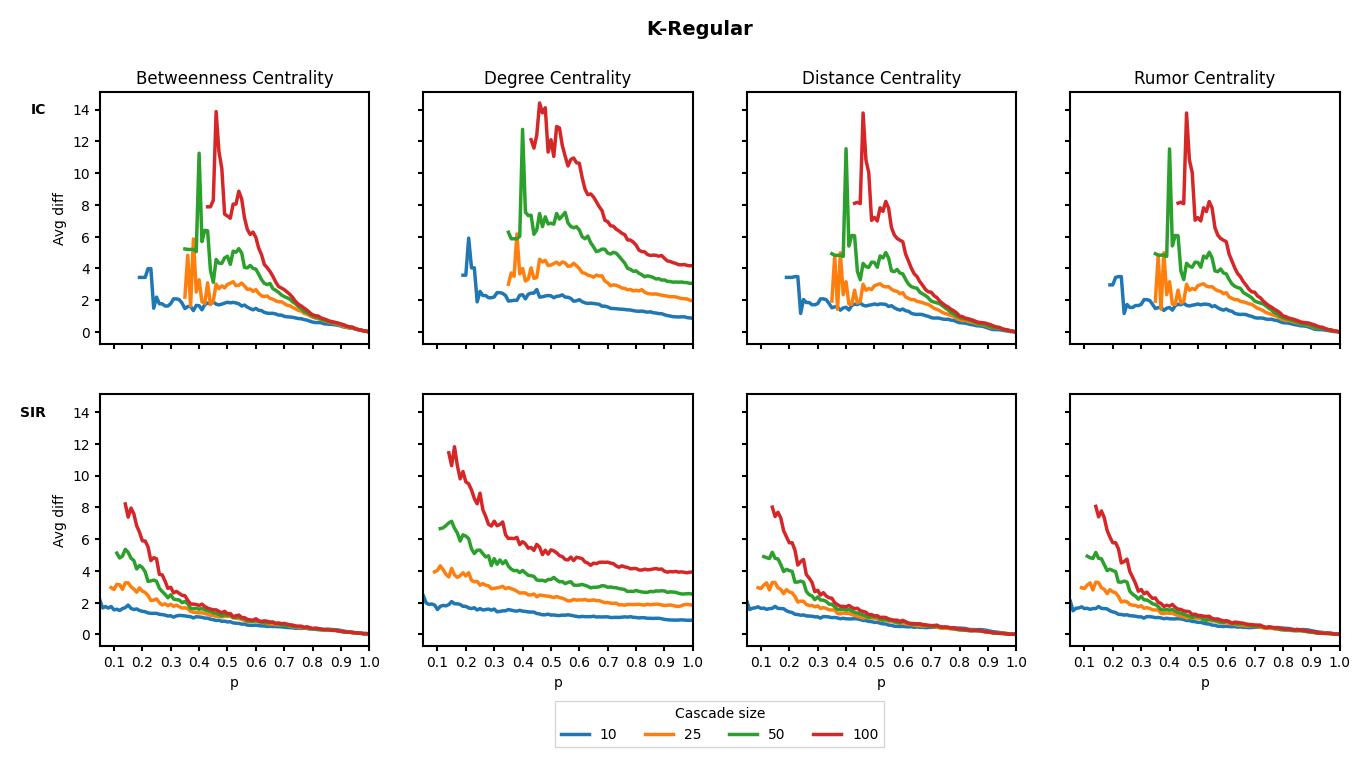
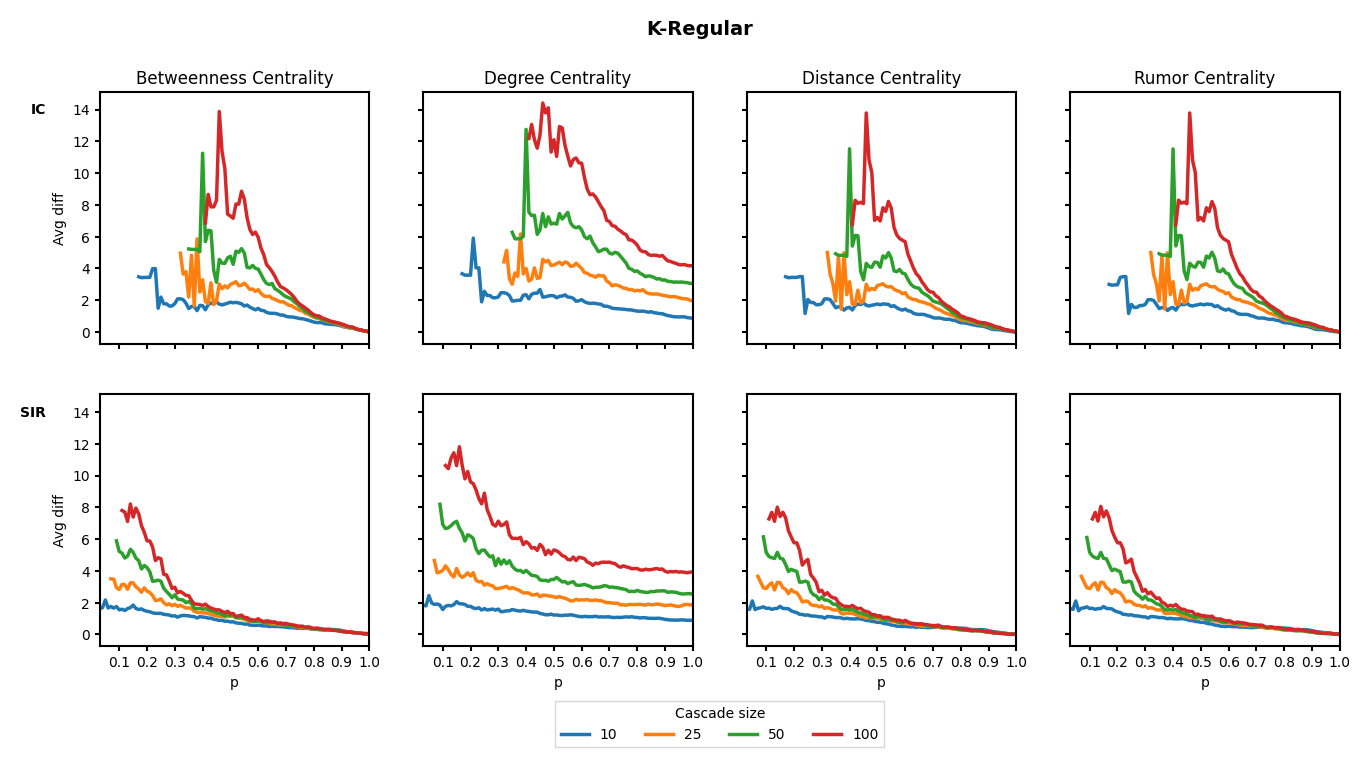
updated plots

diff --git a/src/patient_zero/experiments/simulations.py b/src/patient_zero/experiments/simulations.py
@@ -15,7 +15,7 @@ from patient_zero.enums import NetworkType, ModelType
 
 BASE_PATH = Path(__file__).resolve().parent
 MAX_ATTEMPTS_PER_SIM = 1_000
-MAX_SIMULATIONS = 100
+MAX_SIMULATIONS = 1_000
 
 def run_simulation(
     graph, 
